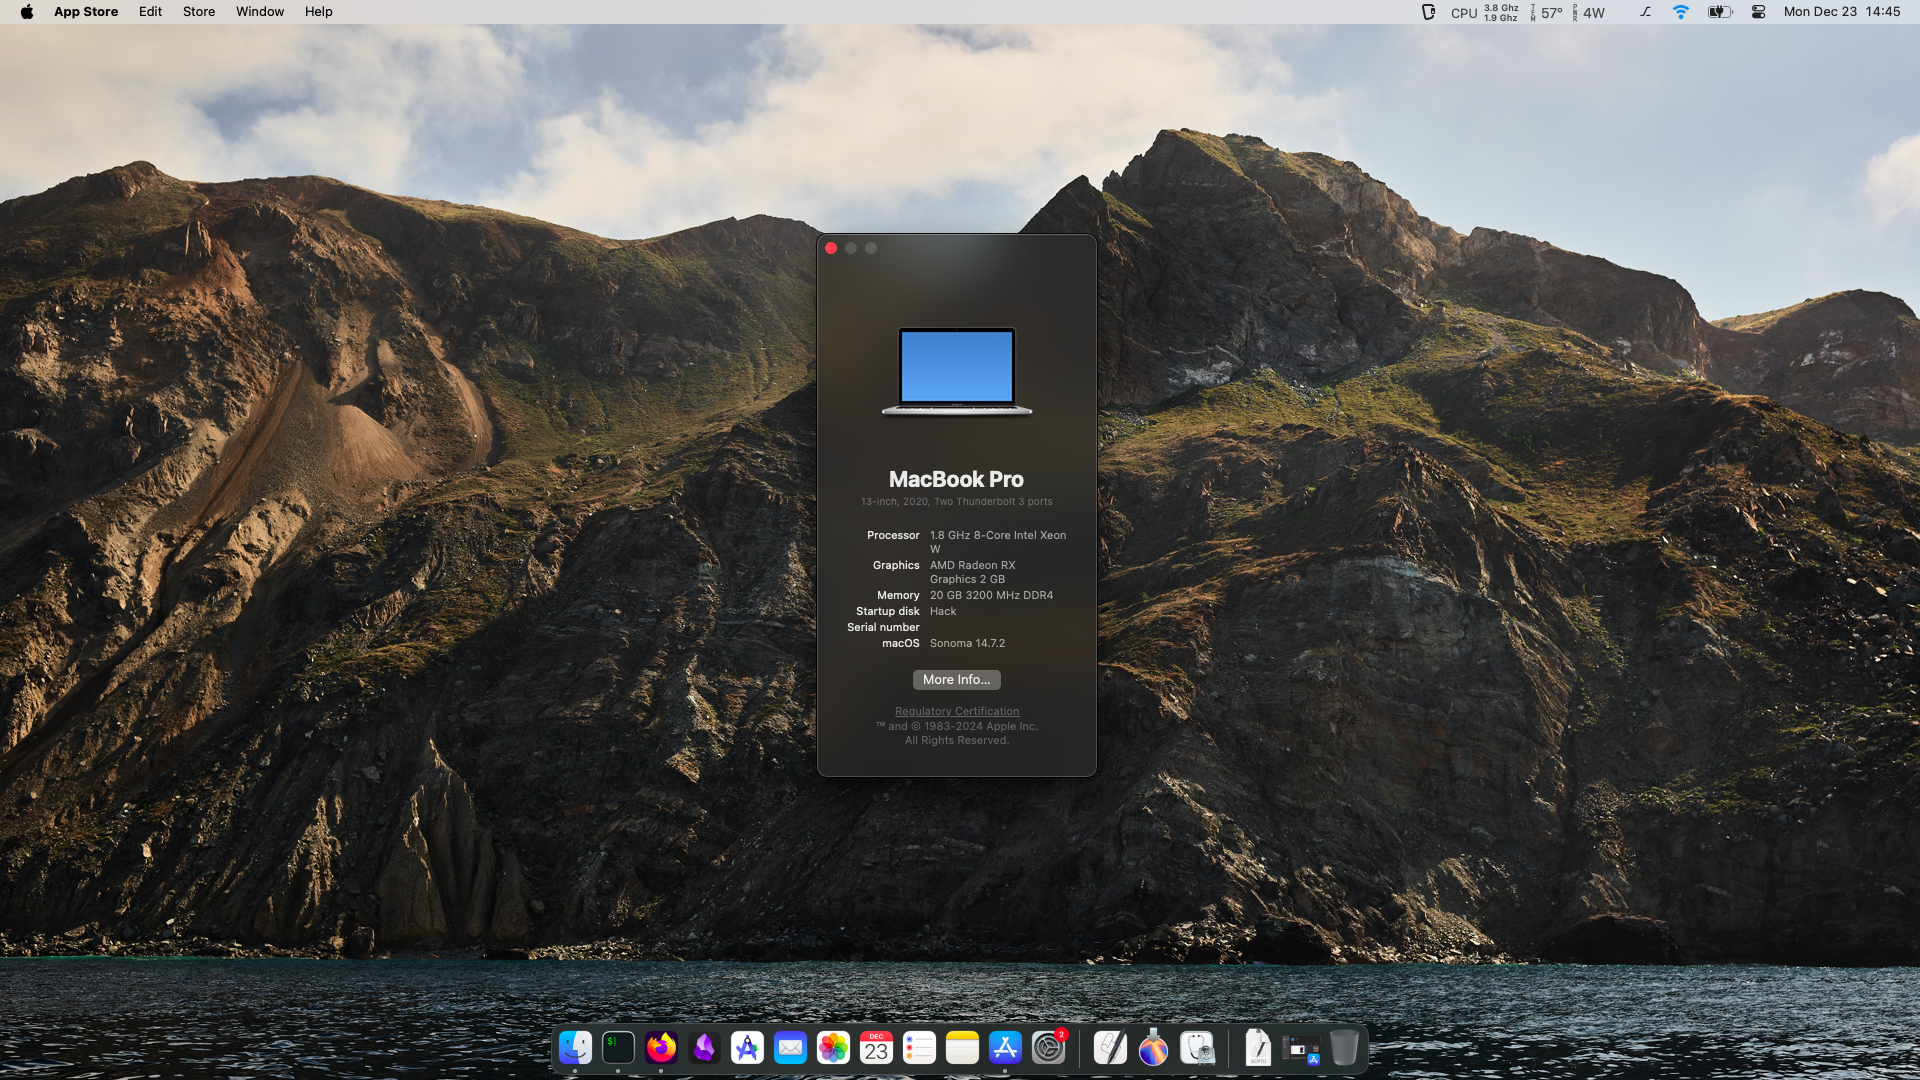
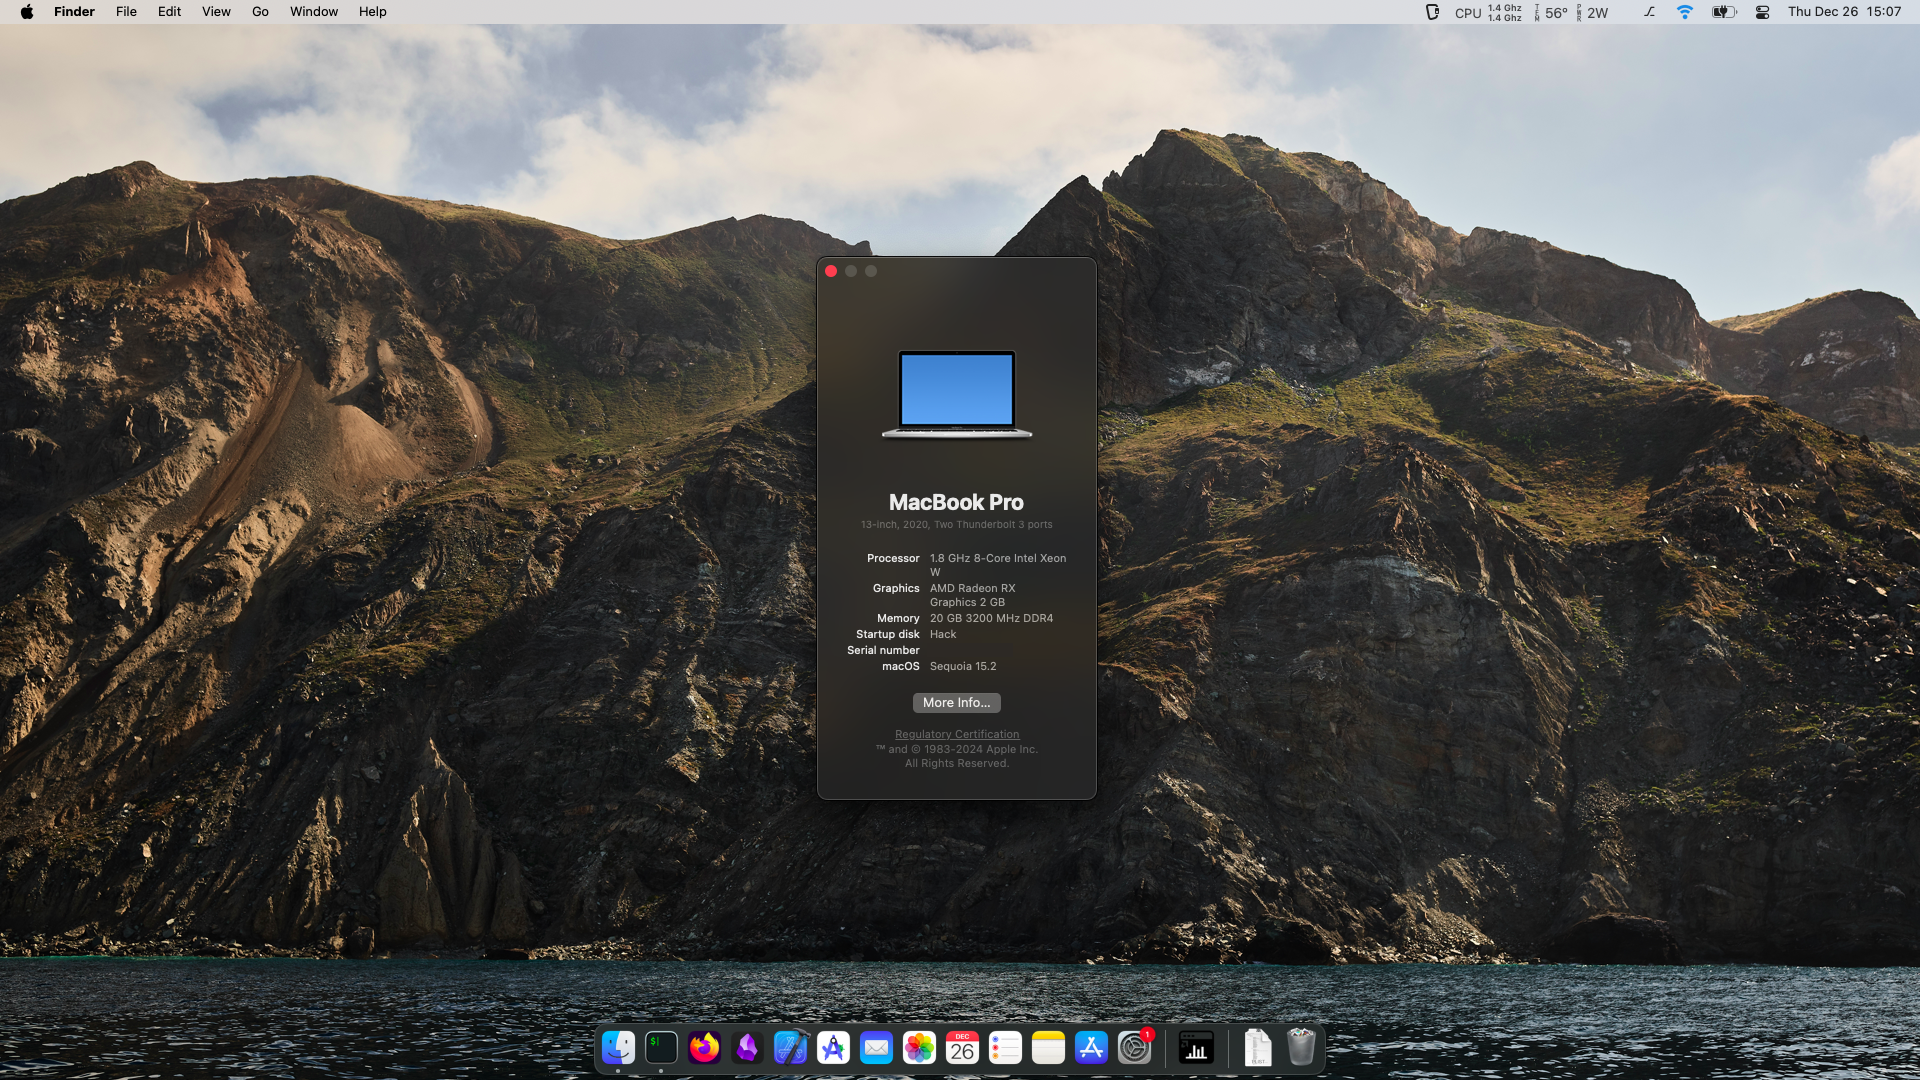
update to sequoia

diff --git a/README.md b/README.md
@@ -7,7 +7,7 @@
 Category | Version
 :- | :-
 [OpenCore](https://github.com/acidanthera/OpenCorePkg) | 1.0.3
-MacOS | Sonoma 14.7.2
+MacOS | Sequoia 15.2
 
 ## Hardware Specifications
 Category | Part | Status
@@ -35,4 +35,4 @@ https://github.com/chris1111/Wireless-USB-OC-Big-Sur-Adapter).
 - [x] Fix keyboard wakeup from sleep
 - [x] Fix brightness keys
 - [x] Update kexts
-- [ ] Try macOS Sequoia
+- [x] Try macOS Sequoia
